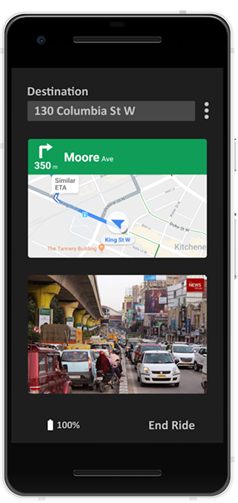
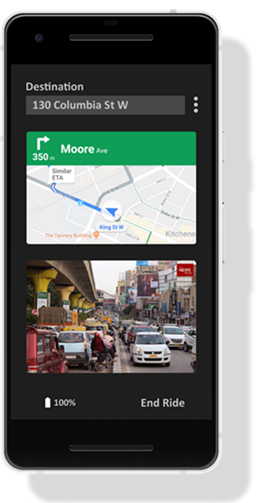
footer + shadow on phone images

diff --git a/src/Pages/News.js b/src/Pages/News.js
@@ -1,20 +1,28 @@
-import React, { useState } from "react";
+import React, { useState, useRef, useEffect } from "react";
 import { HashLink as Link } from "react-router-hash-link";
 import { useScrollPosition } from "@n8tb1t/use-scroll-position";
 import "../Styling/News.css";
-import "../Styling/Header.css";
+import "../Styling/Universal.css";
 import "../Styling/Colours.css";
 import NewsContent from "../Data/NewsContent.js";
 import NavBarStyleHelper from "../Styling/NavBarStyling.js";
 
 function News() {
 	const [NavBarStyle, setNavBarStyle] = useState(NavBarStyleHelper(0));
+	const NewsHeader = useRef(null);
+
+	useEffect(() => {
+		window.scrollTo(0, 0);
+	}, []);
+
 	useScrollPosition(({ prevPos, currPos }) => {
-		setNavBarStyle(NavBarStyleHelper(currPos.y, window.innerHeight));
+		setNavBarStyle(
+			NavBarStyleHelper(currPos.y, NewsHeader.current.clientHeight)
+		);
 	});
 
 	return (
-		<div className="News-Outer">
+		<div>
 			<div className="Header" style={NavBarStyle}>
 				<div className="Header-Left">
 					<Link to="/" className="HashLink">
@@ -22,10 +30,19 @@ function News() {
 					</Link>
 				</div>
 			</div>
-			<h1>iBlind News</h1>
-			{NewsContent.map(post => (
-				<NewsPost Post={post} />
-			))}
+			<div ref={NewsHeader} className="News-Header">
+				<h1>News</h1>
+			</div>
+			<div className="News-Body">
+				{NewsContent.map((post, index) => (
+					<NewsPost Post={post} key={index}/>
+				))}
+			</div>
+			<div className="Footer">
+        <Link to="/" className="HashLink">
+          Home
+        </Link>
+      </div>
 		</div>
 	);
 }

diff --git a/src/Pages/Home.js b/src/Pages/Home.js
@@ -1,4 +1,4 @@
-import React, { useState } from "react";
+import React, { useState, useEffect } from "react";
 import { HashLink as Link } from "react-router-hash-link";
 import { useScrollPosition } from "@n8tb1t/use-scroll-position";
 import meh from "../Resources/meh.png";
@@ -11,7 +11,7 @@ import Loading from "../Resources/loading.svg";
 import NewsIcon from "../Resources/NewsIcon-Transparent.png";
 import "../Styling/Home.css";
 import "../Styling/Colours.css";
-import "../Styling/Header.css";
+import "../Styling/Universal.css";
 import NewsContent from "../Data/NewsContent.js";
 import NavBarStyleHelper from "../Styling/NavBarStyling.js";
 import FrontModule from "../Resources/FrontModule.png";
@@ -22,6 +22,11 @@ import RideSummary from "../Resources/RideSummary.png";
 
 function Home() {
   const [NavBarStyle, setNavBarStyle] = useState(NavBarStyleHelper(0));
+
+  useEffect(() => {
+    window.scrollTo(0, 0);
+  }, []);
+
   useScrollPosition(({ prevPos, currPos }) => {
     setNavBarStyle(NavBarStyleHelper(currPos.y, window.innerHeight));
   });

diff --git a/src/Styling/News.css b/src/Styling/News.css
@@ -1,6 +1,18 @@
-.News-Outer {
+.News-Header {
 	background-color: var(--colour-one);
-	min-height: 100vh;
+	padding-top: 100px;
+	padding-bottom: 100px;
+	padding-left: 100px;
+}
+
+.News-Header > h1 {
+	color: var(--colour-two);
+	font-size: 5rem;
+}
+
+.News-Body {
+	background-color: var(--colour-two);
+	height: 2000px;
 }
 
 .News {

diff --git a/src/Styling/Universal.css b/src/Styling/Universal.css
@@ -35,3 +35,15 @@
   margin-left: 50px;
   font-size: 1.1rem;
 }
+
+.Footer {
+  background-color: white;
+  padding: 15px;
+  text-align: center;
+}
+
+.Footer > a {
+  margin-right: 15px;
+  margin-left: 15px;
+  color: grey;
+}

diff --git a/src/Styling/Home.css b/src/Styling/Home.css
@@ -295,14 +295,3 @@ a:hover {
 .Contact-Loading {
   width: 60px;
 }
-
-.Footer {
-  background-color: white;
-  padding: 15px;
-}
-
-.Footer > a {
-  margin-right: 15px;
-  margin-left: 15px;
-  color: grey;
-}
